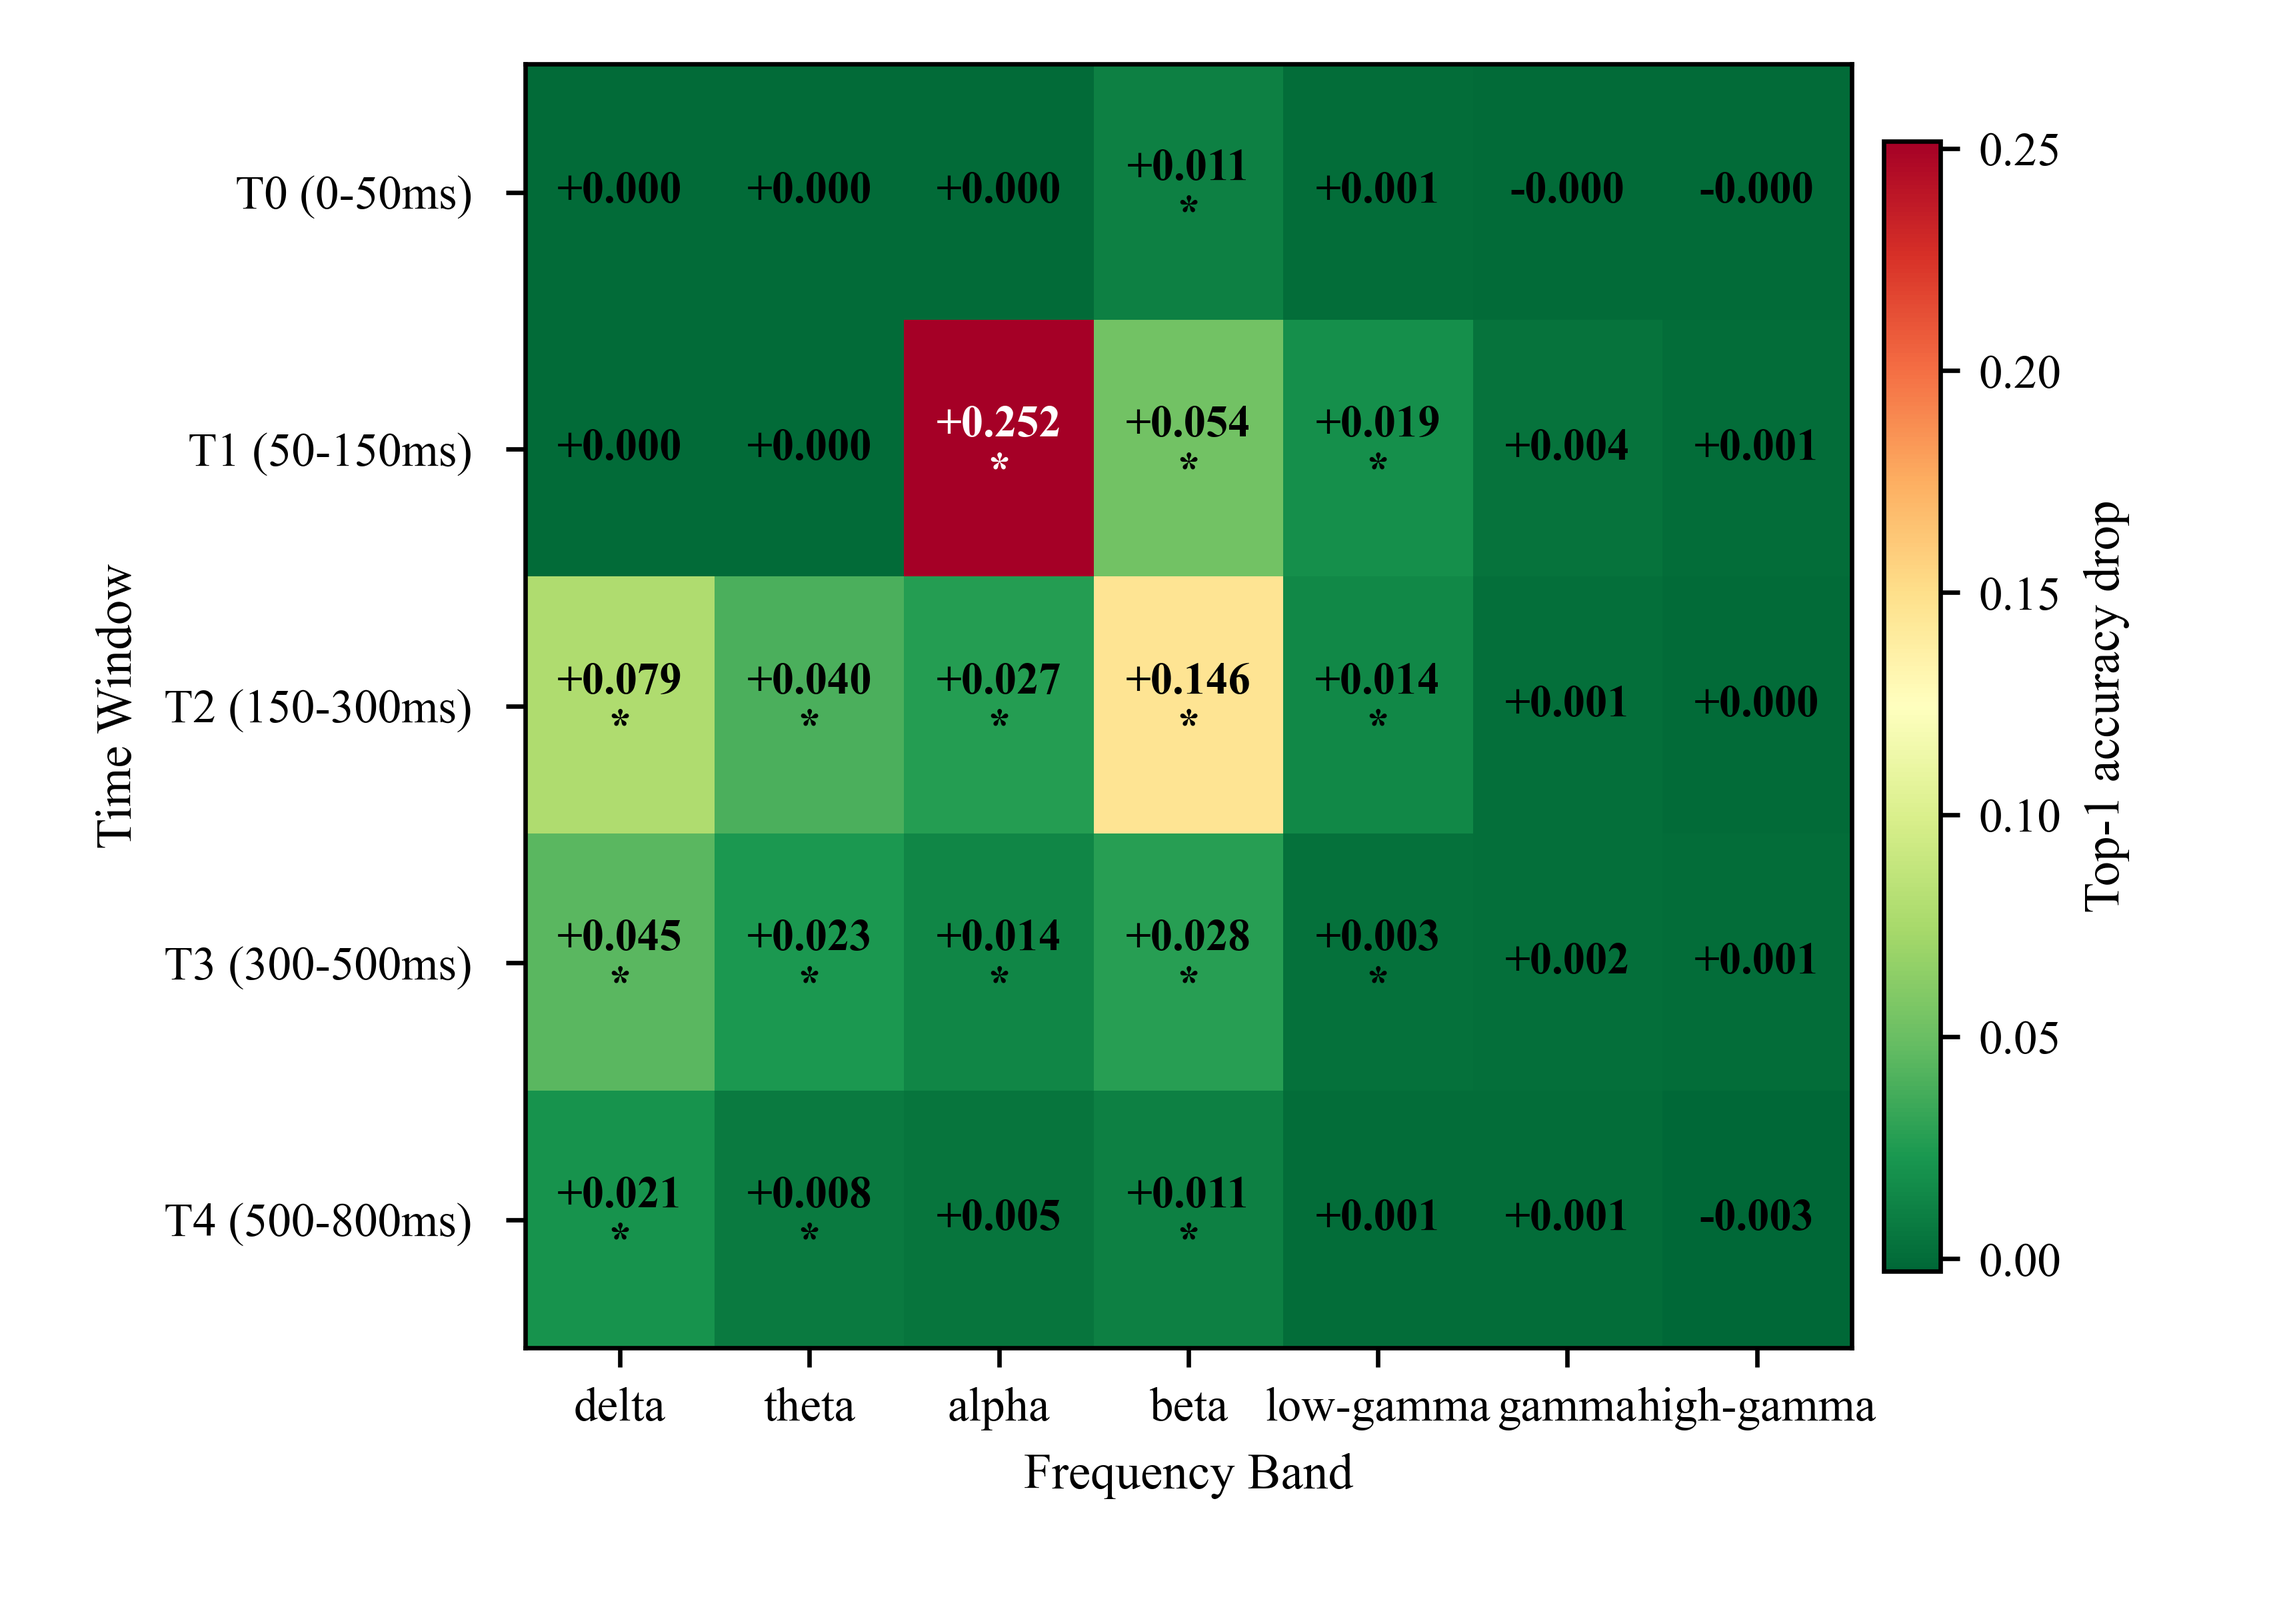
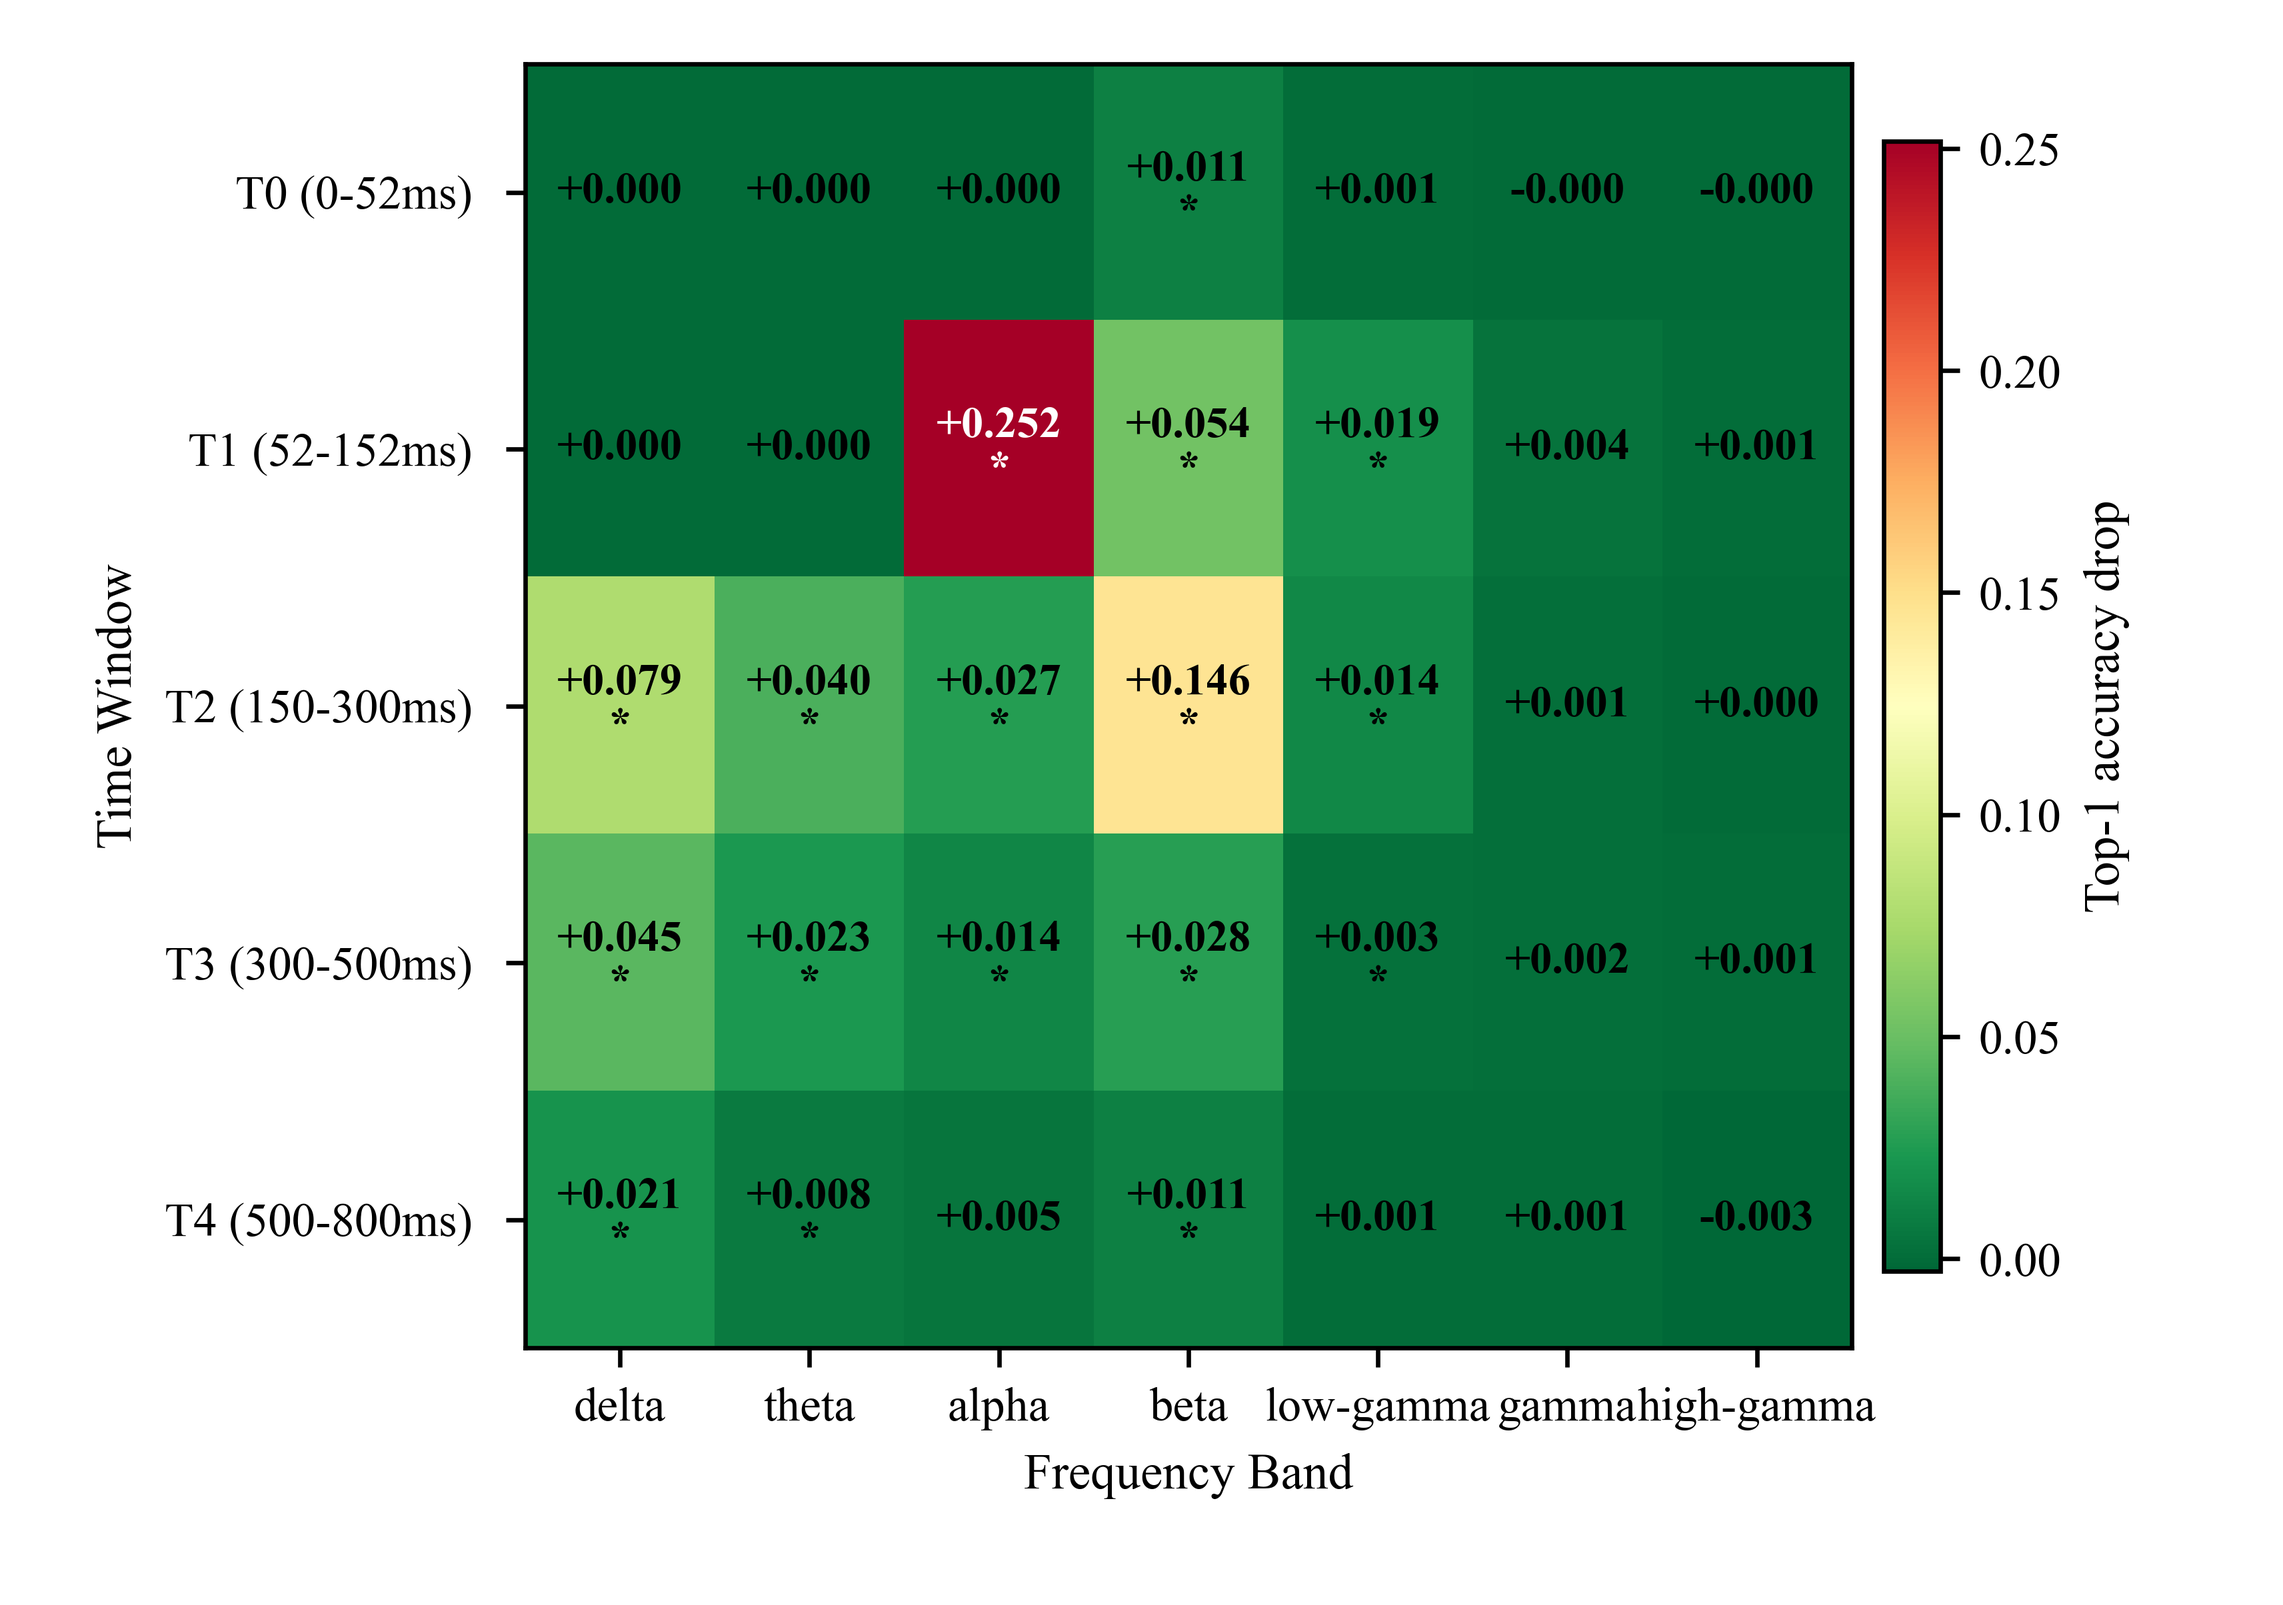
fix(temporal): correct generalization heatmap time labels to 52ms and 152ms

diff --git a/scripts/temporal/plot_generalization_temporal.py b/scripts/temporal/plot_generalization_temporal.py
@@ -73,8 +73,8 @@ matplotlib.rcParams.update(
 TW_ORDER = ["T0_0-50ms", "T1_50-150ms", "T2_150-300ms", "T3_300-500ms", "T4_500-800ms"]
 FB_ORDER = ["delta", "theta", "alpha", "beta", "low_gamma", "gamma", "high_gamma"]
 TW_SHORT_LABELS = {
-    "T0_0-50ms": "T0 (0-50ms)",
-    "T1_50-150ms": "T1 (50-150ms)",
+    "T0_0-50ms": "T0 (0-52ms)",
+    "T1_50-150ms": "T1 (52-152ms)",
     "T2_150-300ms": "T2 (150-300ms)",
     "T3_300-500ms": "T3 (300-500ms)",
     "T4_500-800ms": "T4 (500-800ms)",
